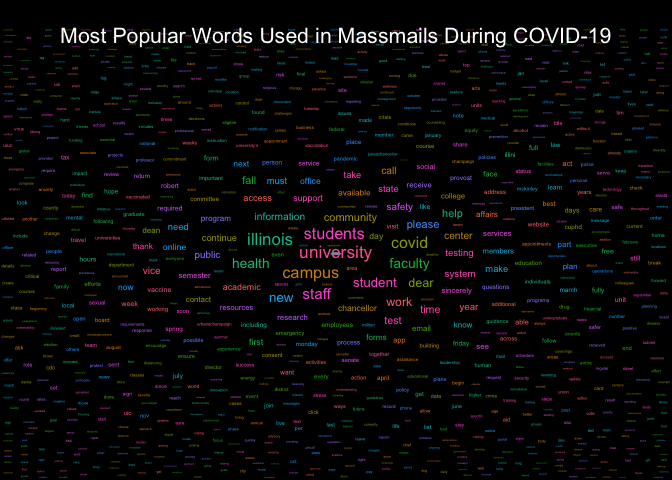
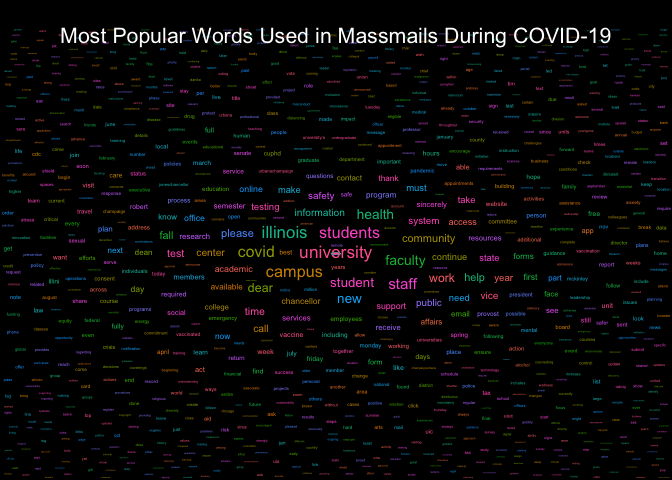
Re-build README.Rmd and Graphs

Changed region(s): [[0.0, 0.0625, 1.0, 1.0]]

diff --git a/README.md b/README.md
@@ -210,9 +210,9 @@ head(most_popular_words, 10) %>%
 
 | word        | freq |
 |:------------|-----:|
-| university  | 2288 |
-| students    | 1898 |
-| campus      | 1684 |
+| university  | 2289 |
+| students    | 1899 |
+| campus      | 1685 |
 | illinois    | 1518 |
 | student     | 1125 |
 | faculty     | 1087 |
